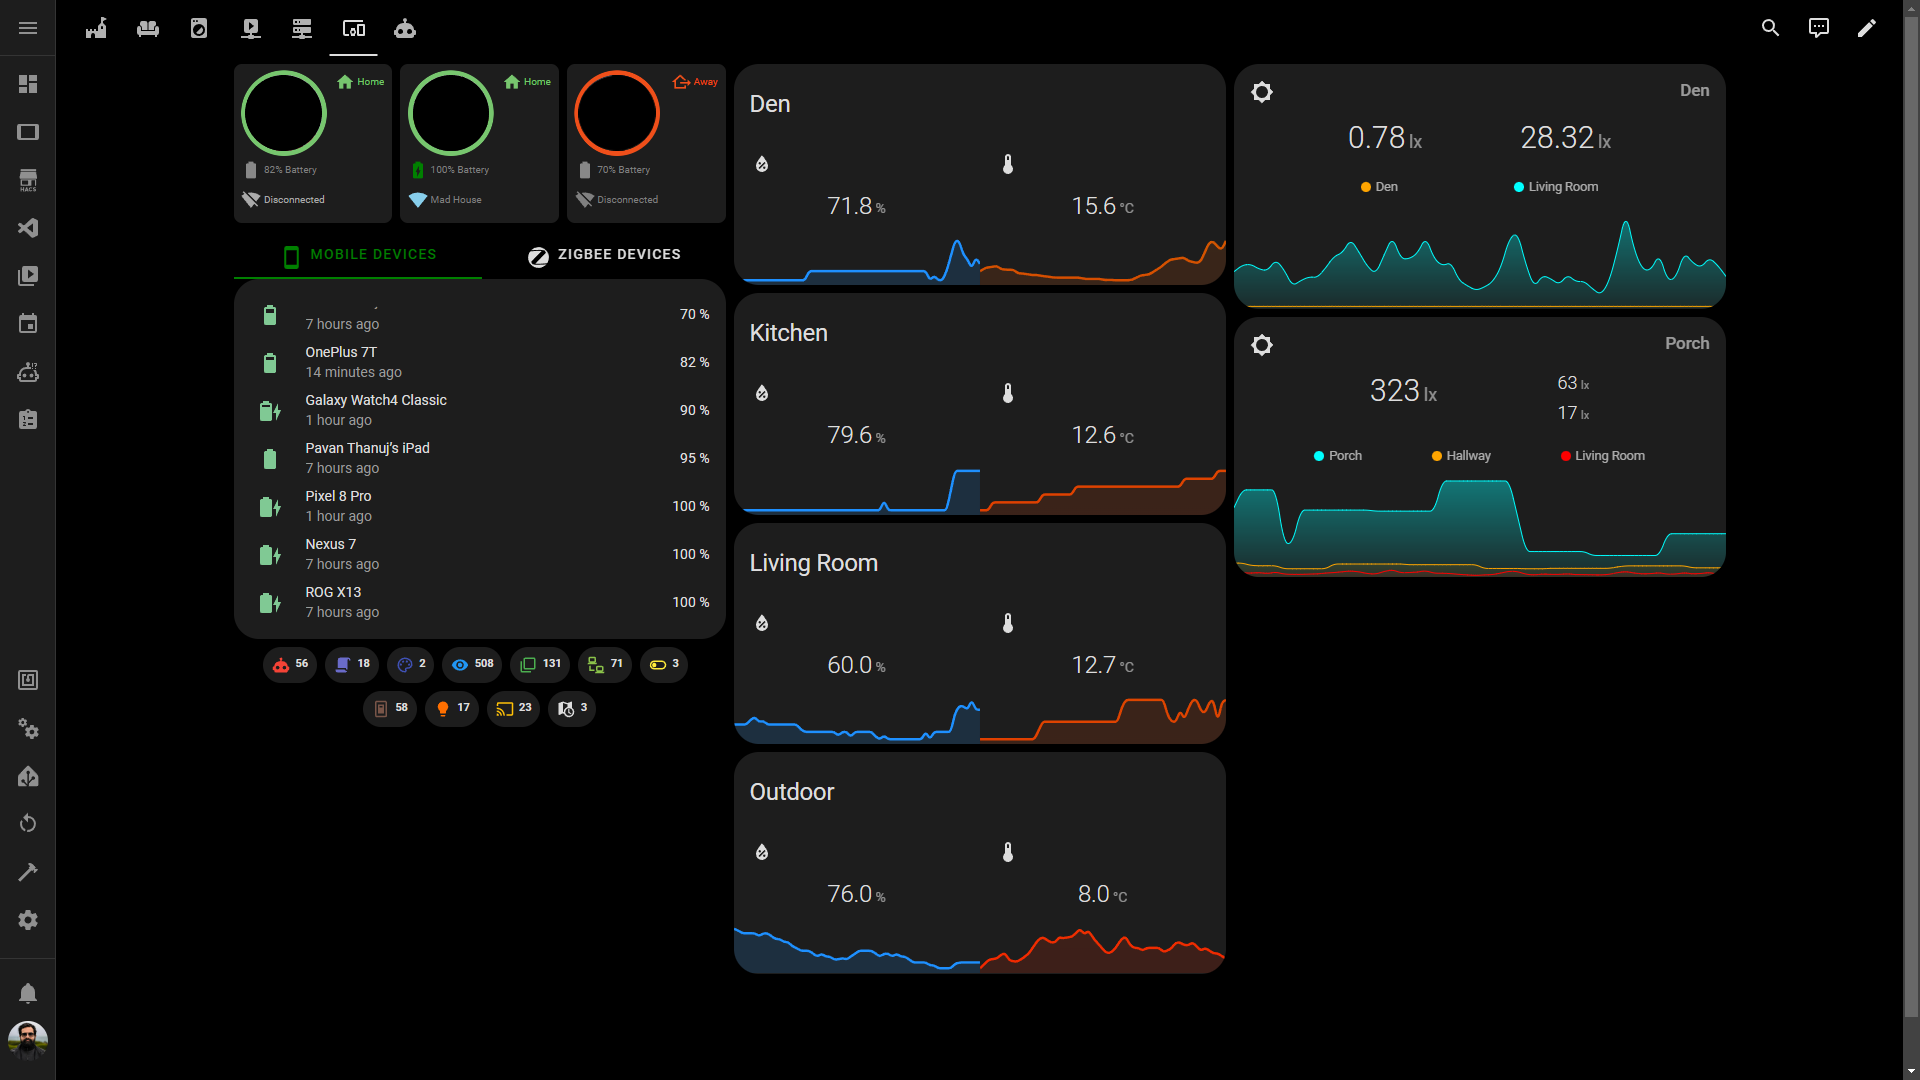
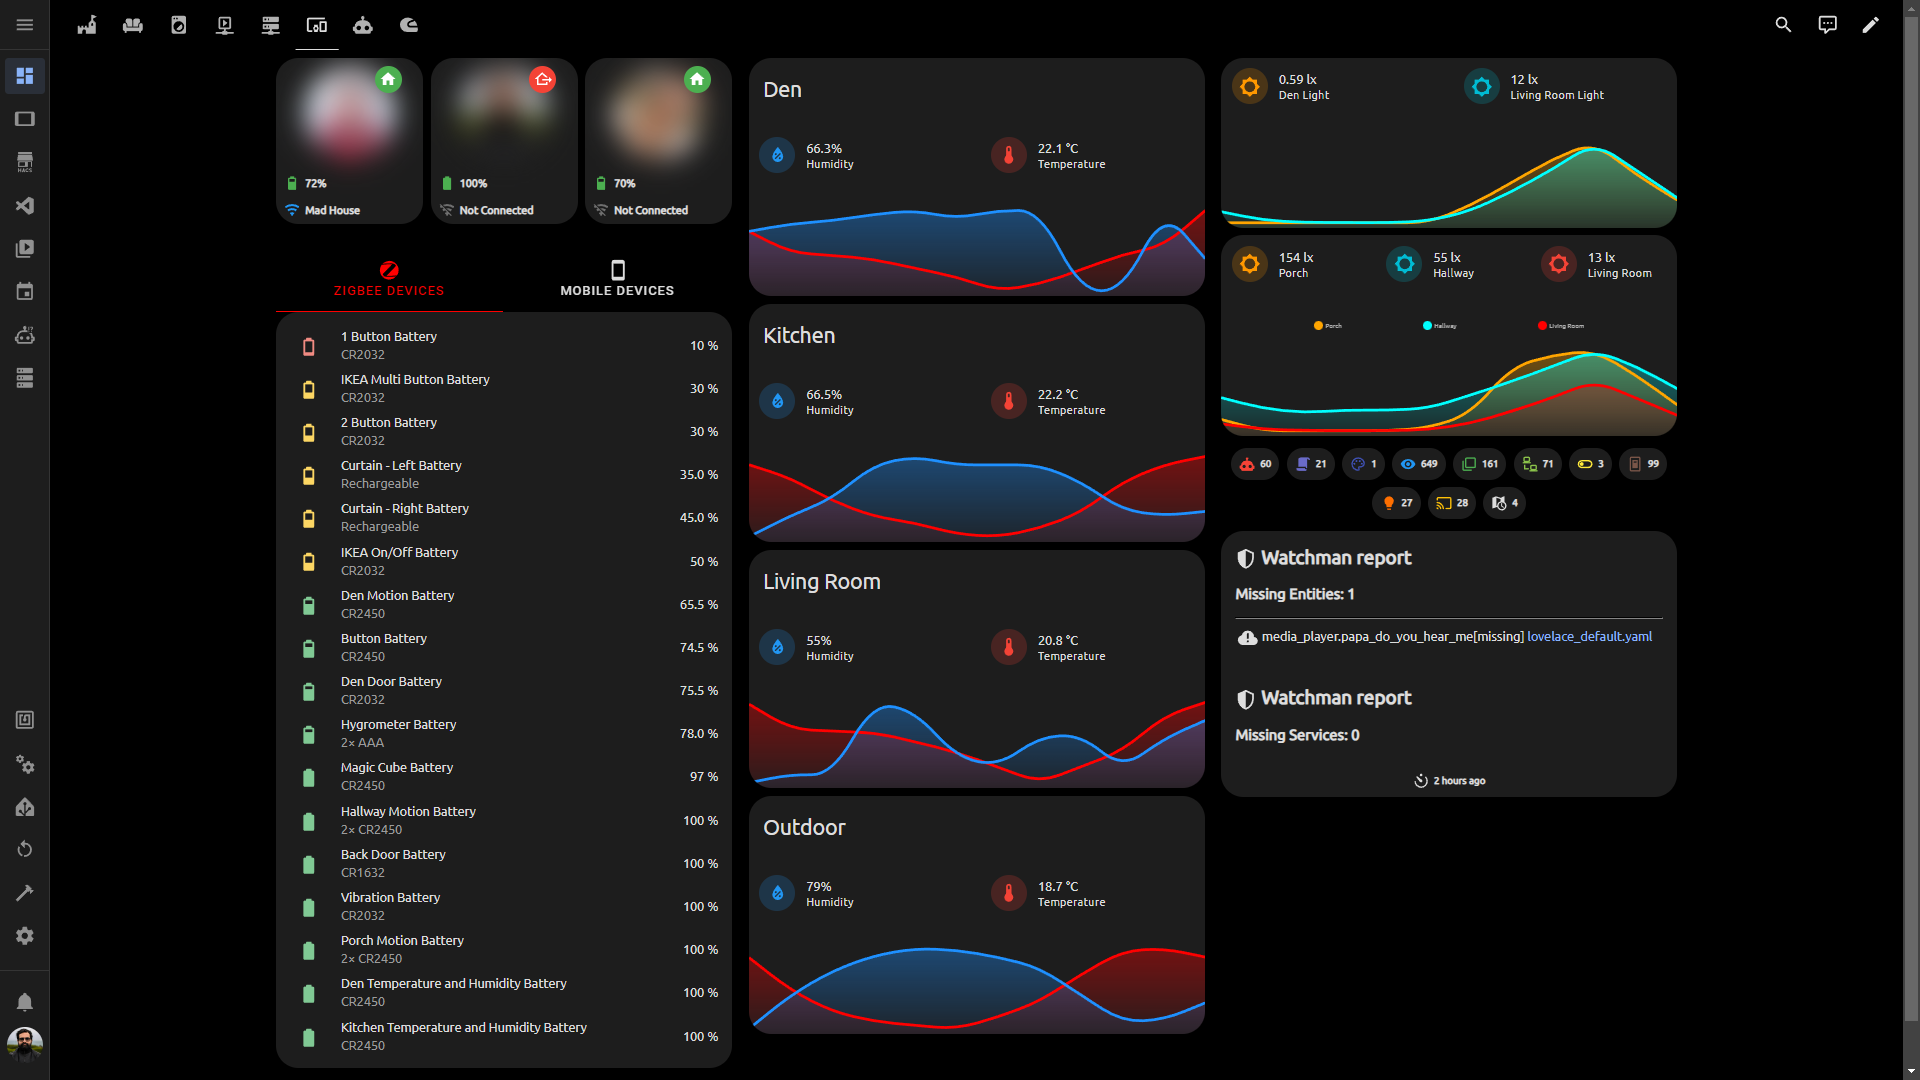
Update screenshots 📷

diff --git a/README.md b/README.md
@@ -172,7 +172,7 @@ I started my Home Assistant Journey with a Raspberry Pi 3, from which I have swi
 ![Lovelace 5](https://github.com/n00bcodr/homeassistant/blob/master/screenshots/5.png?raw=true "Lovelace 5")
 ![Lovelace 6](https://github.com/n00bcodr/homeassistant/blob/master/screenshots/6.png?raw=true "Lovelace 6")
 ![Lovelace 7](https://github.com/n00bcodr/homeassistant/blob/master/screenshots/7.png?raw=true "Lovelace 7")
-
+![Lovelace 8](https://github.com/n00bcodr/homeassistant/blob/master/screenshots/8.png?raw=true "Lovelace 8")
 
 ---
 ### <a name="wishlist">Wishlist</a> 
